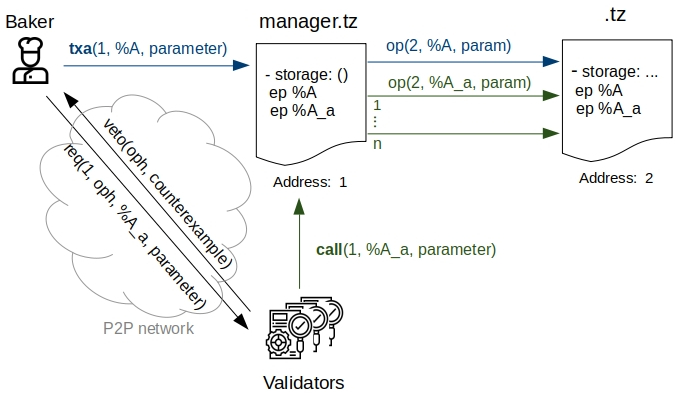
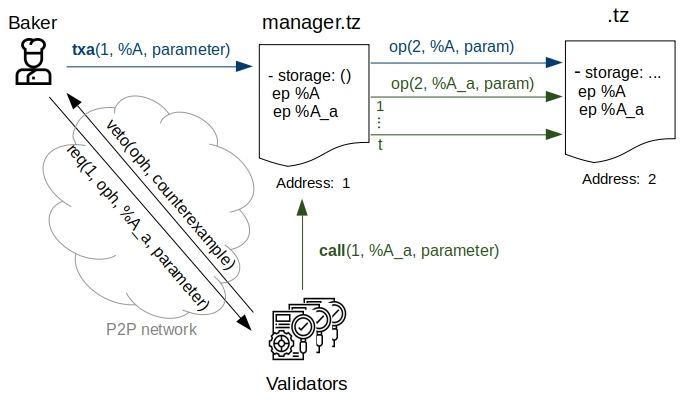
Compilation general part

diff --git a/assertions/doc/thesis-bernhardt/chapters/4-offline_design_tezos.tex b/assertions/doc/thesis-bernhardt/chapters/4-offline_design_tezos.tex
@@ -26,7 +26,7 @@ The concrete syntax of Michelson is called Micheline. A program is represented i
 For documentation, readability and additional type constraints, Michelson and Micheline also offer three types of annotations - type, variable and field or constructor annotations, which are labelled with a unique special character in Micheline. The toplevel structure of a smart contract consists of a sequence of the three primitives \texttt{parameter, storage} and \texttt{code}, declaring the type of the input parameter, the storage type and the actual program code. The full grammar of Micheline and Michelson can be found in the Tezos developer resources \cite{tezos_docs}.
 
 \subsubsection{Entrypoints}
- Unlike the contracts shown so far, which were expressed with the syntax of Ethereum's contract language Solidity \cite{solidity_docs}, Michelson doesn't have a concept of named functions with individual input parameter types. Instead of named functions, Michelson programs can have separate entrypoints by taking a disjunctive type as input parameter and optionally tagging the type constructors with a "function" name. The disjunctive type is built by nesting the \texttt{or} type, which has the constructors \texttt{left} and \texttt{right}. Assume we want to implement the contract from \lstref{lst:prime} in Michelson and add another function to it, which expects a string parameter. Omitting the actual program, the contract type declaration looks as follows:
+Unlike the contracts shown so far, which were expressed with the syntax of Ethereum's contract language Solidity \cite{solidity_docs}, Michelson doesn't have a concept of named functions with individual input parameter types. Instead of named functions, Michelson programs can have separate entrypoints by taking a disjunctive type as input parameter and optionally tagging the type constructors with a "function" name. The disjunctive type is built by nesting the \texttt{or} type, which has the constructors \texttt{left} and \texttt{right}. Assume we want to implement the contract from \lstref{lst:prime} in Michelson and add another function to it, which expects a string parameter. Omitting the actual program, the contract type declaration looks as follows:
 \begin{lstlisting}[language=Michelson, numbers=none, caption=Michelson contract with two entrypoints]
 parameter (or (int %isPrime) (string %isUpper));
 storage unit;
@@ -37,6 +37,17 @@ code {
 }
 \end{lstlisting}
 The input type declared in the primitive application \texttt{parameter} accepts input of either type \texttt{left int}, or \texttt{right string}. By adding the field annotations \texttt{isPrime} and \texttt{isUpper}, the entrypoints are given tags and can be called explicitly by an external transaction. In that case, parameters of type \texttt{int} or \texttt{string} are accepted and the value is automatically wrapped into the respective constructors. Furthermore, it's possible to declare a \texttt{default} entrypoint, which is called when no explicit tag is specified. By default, the default entrypoint is assigned to the root of the parameter type. \cite{tezos_docs}
+
+\subsubsection{Internal operations}
+Smart contracts are able to call other smart contracts by emitting internal operations. The return type of Michelson programs is a tuple of a list of internal operations and the updated storage. Thus, after the actual contract has been executed, the operations of the returned list are run in sequence. Since the internal operations may in turn also emit internal operations, they are put into a queue and are processed in order. As an example, \figref{fig:internal_ops} shows an execution order of two external transactions, i.e., transactions which have been initiated by a user account, and their internal operations.
+\begin{figure}[h]
+\centering
+\includegraphics[width=0.5\linewidth]{figures/4-offline_tezos/internal_ops}
+\caption{Execution order of two external operations and their internal operations; Source: \cite{tezos_docs}}
+\label{fig:internal_ops}
+\end{figure}
+
+Both external and internal operations can fail if the source does not have enough balance to spend the specified amount, a gas limit was reached or if a program fails when reaching a \texttt{FAILWITH} instruction. If a failure occurs, the whole sequence fails and all changes up to the point of failure are reverted.
 
 \subsection{Developer tools in the Tezos ecosystem}
 This section describes some relevant tools and projects for developers that are part of Tezos' ecosystem.
@@ -130,7 +141,7 @@ match (instruction, stack) with
 - as representation of a counterexample is still an open question, there are not specifics yet as to how this instruction is supposed to look like (or if it is needed at all)
 
 \section{Orchestration of contract and assertions}
-So far, the assertion and parent contract have been considered separately. However, on the blockchain they have to be orchestrated, s.t. the bakers and validators execute the assertion before the actual contract code. The orchestration does not only include the linking of assertion and contract code, but also a mechanism to execute an assertion $n$ times depending on the domain space that needs to be checked. There are basically two approaches - the assertion and contract code can be assembled into a single monolithic contract, or they can be originated separately as standalone contracts. As the strategy has an impact on the compilation process and output, it has to be determined in advance which of the two should be implemented and how.
+So far, the assertion and parent contract have been considered separately. However, on the blockchain they have to be orchestrated, s.t. the bakers and validators execute the assertion before the actual contract code. The orchestration does not only include the linking of assertion and contract code, but also a mechanism to execute an assertion $t$ times depending on the domain space that needs to be checked. There are basically two approaches - the assertion and contract code can be assembled into a single monolithic contract, or they can be originated separately as standalone contracts. As the strategy has an impact on the compilation process and output, it has to be determined in advance which of the two should be implemented and how.
 
 \subsection{Approach 1: Monolithic contract}
 In the monolithic approach, a new contract is built using both the assertion and parent code as input. As is outlined in \figref{fig:monolithic_orchestration_basic}, the assertions can either be appended to the original contract as separate entrypoints or by prepending them to the code of the respective entrypoint. This tightly couples and unites the code in one self-contained unit.
@@ -142,7 +153,7 @@ In the monolithic approach, a new contract is built using both the assertion and
 \label{fig:monolithic_orchestration_basic}
 \end{figure}
 While the link between assertion and contract code is already given in a), the entrypoint and assertions in b) still need to be coupled, as it is not inherent which entrypoint represents a normal and which the respective assertion. For this reason, assertion entrypoints need to have fixed name pattern, s.t. it is derivable from the original entrypoint. As a proposal, the tag of the assertion is the tag of its parent entrypoint suffixed with a \texttt{\_a}, e.g. \texttt{A\_a} for entrypoint \texttt{A}. The baker can then execute the contract normally by calling the original entrypoint and prompt the validators to execute the assertion separately. \\
-Both approaches, however, do not yet provide any means to have validators execute the assertions $n$ times. Since only the contract itself knows how to calculate $n$ (as per the range(s) of the random generator(s)), it cannot be passed to the validators as a parameter to the validation request. Instead, the contract itself needs a test run manager which handles this. A test run manager can either be implemented as another entrypoint, say \texttt{A\_m}, which then calls \texttt{A\_a} (or \texttt{A} in case of a)) $n$ times as an internal operation. Because transactions on Tezos guarantee either total success or total failure \cite{tezos_docs}, the execution is stopped as soon as one of the internal operation fails, i.e. detects a counterexample. When extending the diagram for a) with the manager, the pipeline output thus look as shown in \figref{fig:monolithic_orchestration}. The output for b) is analogue.
+Both approaches, however, do not yet provide any means to have validators execute the assertions $t$ times. Since only the contract itself knows how to calculate $t$ (as per the range(s) of the random generator(s)), it cannot be passed to the validators as a parameter to the validation request. Instead, the contract itself needs a test run manager which handles this. A test run manager can either be implemented as another entrypoint, say \texttt{A\_m}, which then calls \texttt{A\_a} (or \texttt{A} in case of a)) $t$ times as an internal operation. Because transactions on Tezos guarantee either total success or total failure \cite{tezos_docs}, the execution is stopped as soon as one of the internal operation fails, i.e. detects a counterexample. When extending the diagram for a) with the manager, the pipeline output thus look as shown in \figref{fig:monolithic_orchestration}. The output for b) is analogue.
 \begin{figure}[h]
 \centering
   \includegraphics[width=0.5\textwidth]{figures/4-offline_tezos/pipeline_output_mono_ep.jpg}
@@ -219,7 +230,7 @@ The distinct advantages and disadvantages of each combination of given implement
 		\item Bypassing the assertion is not possible
 		\end{itemize} &
 		\begin{itemize}[leftmargin=*, noitemsep,topsep=0pt,parsep=0pt,partopsep=0pt]
-		\item Cost inefficient - validators execute the assertion + code $n$ times
+		\item Cost inefficient - validators execute the assertion + code $t$ times
 		\item Also only works with explicit entrypoint tags
 		\end{itemize} \\ \hline
 		\end{tabular}
@@ -252,15 +263,15 @@ The distinct advantages and disadvantages of each combination of given implement
 		\item Readability
 		\end{itemize} &
 		\begin{itemize}[leftmargin=*, noitemsep,topsep=0pt,parsep=0pt,partopsep=0pt]
-		\item Cost inefficient - validators execute the assertion + code $n$ times
+		\item Cost inefficient - validators execute the assertion + code $t$ times
 		\item Higher initial origination costs due to more boilerplate code
 		\end{itemize} \\ \hline
 		\end{tabular}
 	}
 \end{table}
 
-\subsection{Approach 2: Modular contracts}
-With the modular approach, the assertion manager and each of the assertions are originated as separate contracts on the blockchain. The manager mirrors the interface of the parent contract, while each assertion each only has a single entrypoint which expects the raw parameter type. Due to the ``outsourcing'' of the assertion code, the parent contract remains pure and does not have to be modified. Similar to the hybrid solution from the last section, the manager calls the respective assertion contract $n$ times as an internal operation before calling the actual contract. In the case of empty assertions, it calls the parent contract immediately. Correspondingly, the pipeline outputs 1-$m$ contracts, where $m$ is the amount of entrypoints with an associated assertion, as depicted in \figref{fig:modular_assembly}.
+\subsection{Approach 2: Modular contracts}\label{sec:modular}
+With the modular approach, the assertion manager and each of the assertions are originated as separate contracts on the blockchain. The manager mirrors the interface of the parent contract, while each assertion each only has a single entrypoint which expects the raw parameter type. Due to the ``outsourcing'' of the assertion code, the parent contract remains pure and does not have to be modified. Similar to the hybrid solution from the last section, the manager calls the respective assertion contract $t$ times as an internal operation before calling the actual contract. In the case of empty assertions, it calls the parent contract immediately. Correspondingly, the pipeline outputs 1-$m$ contracts, where $m$ is the amount of entrypoints with an associated assertion, as depicted in \figref{fig:modular_assembly}.
 \begin{figure}[h]
 \centering
   \includegraphics[width=0.6\textwidth]{figures/4-offline_tezos/pipeline_output_modular.jpg}
@@ -325,32 +336,22 @@ The following assertion contract for the given PC contains some valid and some i
 Due to its tag, the fist assertion can be assigned unambiguously to entrypoint A, whereas for the second it is not apparent whether it should be assigned to entrypoint B or C. Since the tag is omitted in the third assertion, the parameter type is given in respect to the default entrypoint and is assigned to B. The last assertion is invalid because it is overlapping with the previous assertion, which was already assigned to entrypoint B.
 
 \subsection{Compiler}
-The transformed and type checked assertion AST needs to be retargeted to Michelson code according to the orchestration scheme. Since the modular approach is less complex to implement and avoids having to decompile the parent code, this section describes a compiler that assembles the assertion and contract code according to \figref{fig:modular_assembly}. The target language of the compiler of the pipeline can either be Michelson directly, or another high-level language which supports Michelson as a target. \secref{sec:tezos} lists some examples of such languages. The chosen language then serves as an intermediate representation (IR) of the assertion and manager code, which is ultimately compiled to Michelson by the compiler of the language. The outline of the implementation, advantages and disadvantages, as well as the entailed modifications to the pipeline are described and discussed in the following for both approaches.
+The transformed and type checked assertion AST needs to be retargeted to Michelson code according to the orchestration scheme. Since the modular approach is less complex to implement and avoids having to decompile the parent code, this section describes a compiler that assembles the assertion and contract code according to \figref{fig:modular_assembly}. The target language of the compiler of the pipeline can either be Michelson directly, or another high-level language which supports Michelson as a target. \secref{sec:tezos} lists some examples of such languages. The chosen language then serves as an intermediate representation (IR) of the assertion and manager code, which is ultimately compiled to Michelson by the compiler of the language. After specifying the steps of the compilation in a general way, the compilation approaches are described and discussed in more detail in \secref{sec:direct} and \ref{sec:IR}.
 
-%- compilation strategies (direct vs. IR)
-%- output the initial storage configuration for the manager
-%- input: confidence threshold for computation of n
-%- formel for calc n
+\subsubsection{Compilation of the assertion contracts}
+Since the assertions are independent of each other and the manager code, each of them can be compiled in isolation to a separate Michelson program. The generated code of the assertion body and the parameter type can be plugged into a template that already contains the necessary boilerplate code for a contract.
 
-
-\subsubsection{Direct compilation}
-With the direct approach, the compiler generates Michelson code, i.e., code for a stack machine. Based on the simplicity of stack machines and the assumption that the compiler does not need to generate optimal code, its implementation is expected to be simple \cite{cs5641}\cite{ferr_compiler}\cite{stach_machine}. In addition to that, the resulting contracts contain repeating patterns for each input, which can be exploited by using template code during compilation. 
-
-\paragraph{Assertion contracts}
-Since the assertions are independent of each other and the manager code, each of them can be compiled in isolation to a separate Michelson program. The generated code of the assertion body and the parameter type can be plugged into a template that already contains the necessary boilerplate code for a contract. \lstref{lst:contract_templ} shows a possible template - the placeholder \texttt{<?>} marks the locations where the individual code is inserted. Lines 3-5 prepare the stack, s.t. the parameter and storage are the two top elements. The lines below the placeholder for the body clean up the stack and leaves it according to calling convention, i.e., the program returns an empty list of internal operations and the unit storage.
-\lstinputlisting[label=lst:contract_templ, language=Michelson, caption=Template of an assertion contract in Michelson, numbers=left]{listings/assertion_template.tz}
-
-\paragraph{Manager contract}
-Given that the manager contract mirrors the parent contract and assuming that the proposal for the storage type from \lstref{lst:manager_modular} is adopted, the \texttt{parameter} and \texttt{storage} primitives are already fixed. Algorithm \ref{alg:compile_manager} shows the outline of an algorithm that builds the \texttt{code} body recursively:
+\subsubsection{Compilation of the manager contract}
+Given that the manager contract mirrors the parent contract and assuming that the proposal for the storage type from \lstref{lst:manager_modular} is adopted, the type declarations can be translated directly to the target language. Algorithm \ref{alg:compile_manager} shows the outline of a simplified algorithm that builds the code body recursively. For simplicity, entrypoints that take a sum type as parameter (e.g. \texttt{(or \%AB int int)} are not considered in the algorithm. However, in the actual compiler implementation they need to be taken care of. 
 \begin{algorithm}
-\caption{Recursive algorithm for building the manager contract during compilation}\label{alg:compile_manager}
+\caption{Simplified recursive algorithm for building the manager contract}\label{alg:compile_manager}
 	\begin{algorithmic}[0]
-	\State global storage = \{0: parent\}
-	\State global i = 1
-	\Function{compile}{param\_ty}
+	\State global storage = \{0: <parent>\} \Comment{Stores the mapping of ids to entrypoints}
+	\State global i = 1 \Comment{Counter generating unique ids}
+	\Function{compile}{parent parameter type}
 	\If{ty = Or(l,r)}
-	\State code\_left = "IF\_LEFT {" + compile(l) + "}"
-	\State code\_right = "{" + compile(r) + "}"
+	\State code\_left = compile(l)
+	\State code\_right = compile(r)
 	\State \Return code\_left + code\_right
 	\Else
 	\If{assertion exists for this entrypoint}
@@ -365,9 +366,49 @@ Given that the manager contract mirrors the parent contract and assuming that th
 	\end{algorithmic}
 \end{algorithm}
 
-% add comments to algorithm
-% some boilerplate before and after the branching is missing in the algorithm
-% generate_loop template; i is hardwired
+The function \texttt{generate\_loop} generates code that does the following:
+\begin{enumerate}
+\item Retrieve the assertion contract and parent contract addresses from storage
+\item Calculate $t$
+\item Build a list of $t$ internal operations that call the assertion contract
+\item Return the list of emitted operations and the unchanged storage
+\end{enumerate}
+By passing the next id $i$ to the function, the access to the storage can be hard-wired into the generated code. The address of the parent contract is assumed to always be stored with the id 0. \secref{sec:prob_threshold} stated a formula for calculating $t_total$ with the parameters $n$, the size of the search space, and the probability threshold $c$. While $n$ can be calculated from the ranges of the random generator(s), $c$ must be given as parameter to the compiler through the CLI. After $t_total$ has been computed, a divison by 32, i.e., the number of validators, returns the upper bound of the loop. \\
+\texttt{generate\_forward} can be generated from a simple template with the id as the only variant and only consists of  an access to the storage and the emission of an internal operation.
+
+\subsubsection{Output}
+Besides the target code for the manager and assertion contracts, the compiler should return a piece of template code for the correct storage initialization of the manager. Since this code is passed to the origination operation, it must be in Michelson regardless of the compilation target language. The placeholders or accompanying info should be descriptive enough, s.t. the user can plug in the corresponding addresses after the origination of the parent and assertion contracts. For the example manager contract given in \secref{sec:modular}, the corresponding text output could be\\
+\texttt{(Elt 0 <addr parent>; Elt 1 <addr A\_a>; Elt 2 <addr B\_a>)}.
+
+\subsubsection{Direct compilation}\label{sec:direct}
+With the direct approach, the compiler generates Michelson code, i.e., code for a stack machine. Based on the simplicity of stack machines and the assumption that the compiler does not need to generate optimal code, its implementation is expected to be simple \cite{cs5641}\cite{ferr_compiler}\cite{wiki:stack_machine}. In addition to that, the resulting contracts contain repeating patterns for each input, which can be exploited by using template code during compilation. 
+
+\paragraph{Assertion contracts}
+\lstref{lst:contract_templ} shows a possible template for an assertion contract - the placeholder \texttt{<?>} marks the locations where the individual code is inserted. Lines 3-5 prepare the stack, s.t. the parameter and storage are the two top elements. The lines below the placeholder for the body clean up the stack and leaves it according to calling convention, i.e., the program returns an empty list of internal operations and the unit storage.
+\lstinputlisting[label=lst:contract_templ, language=Michelson, caption=Template of an assertion contract in Michelson, numbers=left]{listings/assertion_template.tz}
+
+\paragraph{Manager contract}
+Given that the manager contract mirrors the parent contract and assuming that the proposal for the storage type from \lstref{lst:manager_modular} is adopted, the \texttt{parameter} and \texttt{storage} primitives are already fixed. \algref{alg:compile_manager_direct} shows the outline of an algorithm that builds the \texttt{code} body recursively:
+\begin{algorithm}
+\caption{Modification of algorithm \ref{alg:compile_manager} for direct compilation}\label{alg:compile_manager_direct}
+	\begin{algorithmic}[0]
+	\State ...
+	\Function{compile}{parent parameter type}
+	\If{ty = Or(l,r)} \Comment{Compile sum types to a branching}
+	\State code\_left = "IF\_LEFT {" + compile(l) + "}"
+	\State code\_right = "{" + compile(r) + "}"
+	\State \Return code\_left + code\_right
+	\EndIf
+	\State ...
+	\EndFunction
+	\end{algorithmic}
+\end{algorithm}
+
+As the algorithm generates the core code for each entrypoint only, another code sequence that prepares the stack similar to \lstref{lst:contract_templ} must be prepended.
+
+
+
+% generate_loop template; i is hardwired;  (works for contract w 1 entrypoint), last op first
 % generate_forward for empty assertion; template
 % example/template loop for sorted list; for calculating n, a threshold of c = 1/e assumed (ergo t = |list|) generated with Liquidity; liq source given in section for the IR approach
 
@@ -376,7 +417,7 @@ disadvantages:
 testing -> a bit more complex, from Michelson it's not so easy to see whether it does the correct thing
 use type checker of the Tezos libs for sanity check; type checker is protocol dependent and thus introduces the need for versioning
 
-\subsubsection{Compiling to an IR}
+\subsubsection{Compiling to an IR}\label{sec:IR}
 
 \section{Misc}
 \todo{Aspects/questions I don't know yet if or where to put it}

diff --git a/assertions/doc/thesis-bernhardt/setup.tex b/assertions/doc/thesis-bernhardt/setup.tex
@@ -84,6 +84,7 @@
     \newcommand{\figref}[1]{Figure~\ref{#1}}
     \newcommand{\tabref}[1]{Table~\ref{#1}}
     \newcommand{\lstref}[1]{Listing~\ref{#1}}
+    %\newcommand{\algref}[1]{Algorithm~\ref{#1}}
 
     % ------------------- colors -------------------
     \definecolor{darkgreen}{rgb}{0.0, 0.5, 0.0}
